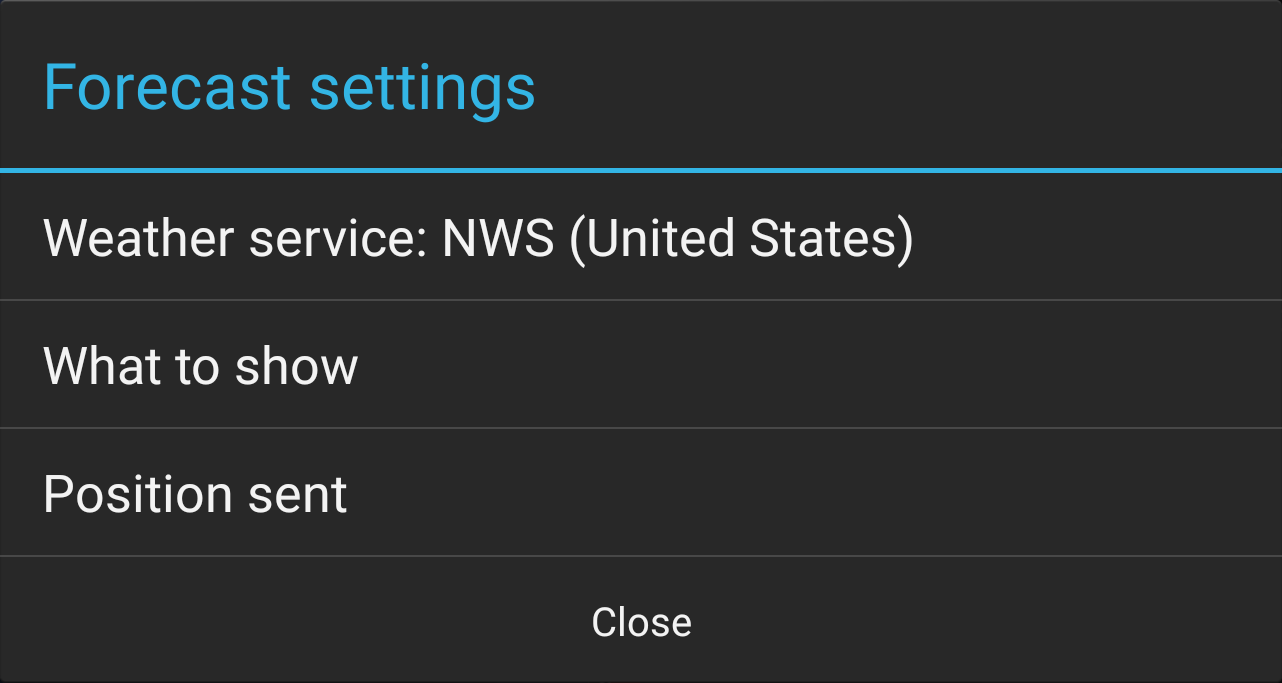
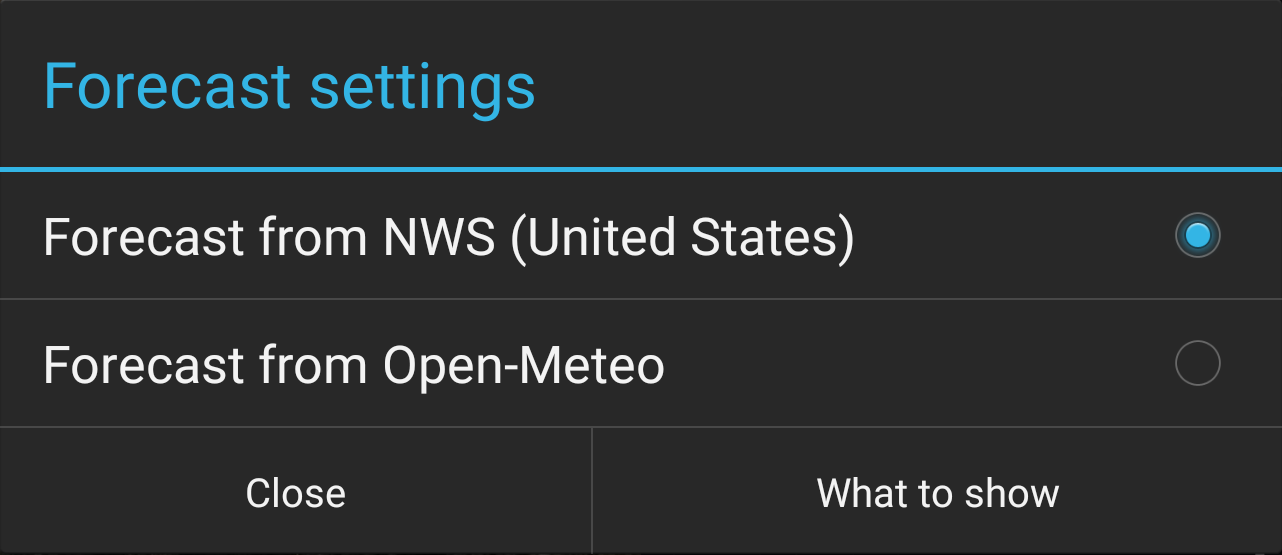
Atmosphere: guide and manual for the new first run, with new pictures
First run and Forecast settings shot on the dev XCover and cropped; the Weather
service picker and Allow pictures are gone with the screens they showed. The
README's network and PORTS REQUIRED text say what the forecast now sends.

diff --git a/docs/USER_GUIDE.md b/docs/USER_GUIDE.md
@@ -19,8 +19,9 @@ waves, the sea and snow — each one a layer you switch on when you need it.
 <img src="screenshots/1_toolbar.png" width="640">
 
 Everything it shows is read by your device from public services and stays on
-your device. Nothing is published to a server or to anyone else's map. No layer
-talks to the network until you allow it, once, by name.
+your device. Nothing is published to a server or to anyone else's map. The
+forecast asks the National Weather Service for the point you are reading; every
+map layer asks you once, naming its server, before it talks to the network.
 
 Warnings, watches and advisories are not here on purpose: they are the
 [IPAWS Alerts](https://github.com/takwerx/ipaws-alerts) plugin's job, and the
@@ -32,17 +33,14 @@ two are meant to run side by side.
 
 - Published builds exist for **ATAK-CIV 5.6, 5.7 and 5.8**. Install the one that
   matches your ATAK exactly; a build for another version will not load.
-- The phone needs a network path to the weather services; each layer names its
-  server when it first asks to be allowed. A reading that has been fetched stays
+- The phone needs a network path to the weather services; each map layer names
+  its server when it first asks to be allowed. A reading that has been fetched stays
   readable when the network drops, with its age on it.
-- The first time, the forecast's weather service has to be allowed. **NWS
-  (United States)** is already chosen, and the Forecast page says it is not
-  allowed yet, with an **Allow NWS (United States)** button under it. Tap it: it
-  names the server and what is sent, and **Allow** turns it on and reads the
-  forecast. Outside the US, choose **Open-Meteo** in **Forecast settings**,
-  **Weather service** instead; it asks the same way.
+- The forecast needs nothing set up: it reads from the National Weather Service
+  (NWS) as soon as Atmosphere opens, in US units. Outside the US, open
+  **Forecast settings** and tap **Forecast from Open-Meteo**.
 
-<img src="screenshots/2_first_run.png" width="300"> <img src="screenshots/12_weather_service.png" width="300"> <img src="screenshots/13_allow_service.png" width="300">
+<img src="screenshots/2_first_run.png" width="420">
 
 ## 2. The pane
 
@@ -87,10 +85,10 @@ old the reading is.
 <img src="screenshots/7_next_hours.png" width="420"> <img src="screenshots/10_next_days.png" width="420">
 
 **Refresh** at the top of this page reads the forecast again. **Forecast
-settings** beside it picks the **Weather service** the forecast comes from —
-only that one is ever asked, and it says "not allowed" until you allow it —
-**What to show**, and **Position sent** — how coarsely your position is
-rounded before it leaves the device. **Favorites** keeps places by name.
+settings** beside it picks where the forecast comes from, **NWS (United
+States)** or **Open-Meteo** for anywhere else, with one tap, and **What to
+show** picks the readings. The point is sent rounded to about 100 m.
+**Favorites** keeps places by name.
 
 <img src="screenshots/11_forecast_settings.png" width="420"> <img src="screenshots/14_favorites.png" width="420">
 
@@ -216,5 +214,5 @@ Preferences**, **Specific Tool Preferences**, **Atmosphere**, and tap
 - It publishes nothing: no path puts anything on another phone or a server.
 - It records nothing about you: no callsign, device identifier or TAK server
   detail is ever sent. Your position leaves the device only for the forecast
-  you ask for, rounded as coarsely as you set, and for the station, gauge and
-  buoy lists when they are set to My position.
+  when it is set to My position, rounded to about 100 m, and for the station,
+  gauge and buoy lists when they are set to My position.

diff --git a/README.md b/README.md
@@ -48,10 +48,11 @@ Capabilities:
     every layer says in words what it is not showing.
   - Spot forecasts: every open request the National Weather Service has, with
     the office's forecast, and help preparing your own request.
-  - No layer or weather service touches the network until the operator allows
-    it, once, by name; the dialog names the server and says what is sent.
-    Coordinates that leave the device are rounded to a precision the operator
-    sets. A failed refresh keeps the last good reading and says how old it is.
+  - The forecast asks the weather service picked in Forecast settings (NWS by
+    default) for the point being read. Every map layer asks the operator once,
+    by name, before it touches the network; the dialog names the server and
+    says what is sent. Coordinates that leave the device are rounded to about
+    100 m. A failed refresh keeps the last good reading and says how old it is.
   - Warnings, watches and advisories are deliberately absent: the companion
     IPAWS Alerts plugin draws them, on the same map.
 
@@ -80,10 +81,11 @@ PORTS REQUIRED
 
 (This is important for ATO, networking, and other security concerns)
 
-  Outbound TCP 443 (HTTPS) only, and only to services the operator has
-  allowed by name. A plaintext http URL in a weather service definition is
-  rejected when it is loaded, not at request time. With nothing allowed the
-  plugin makes no network calls at all.
+  Outbound TCP 443 (HTTPS) only: to the forecast service picked in Forecast
+  settings (api.weather.gov by default, or api.open-meteo.com), and to the
+  services of the map layers the operator has allowed by name. A plaintext
+  http URL in a weather service definition is rejected when it is loaded, not
+  at request time. With no map layer allowed, the forecast is the only call.
 
   Hosts, by what allows them:
 
